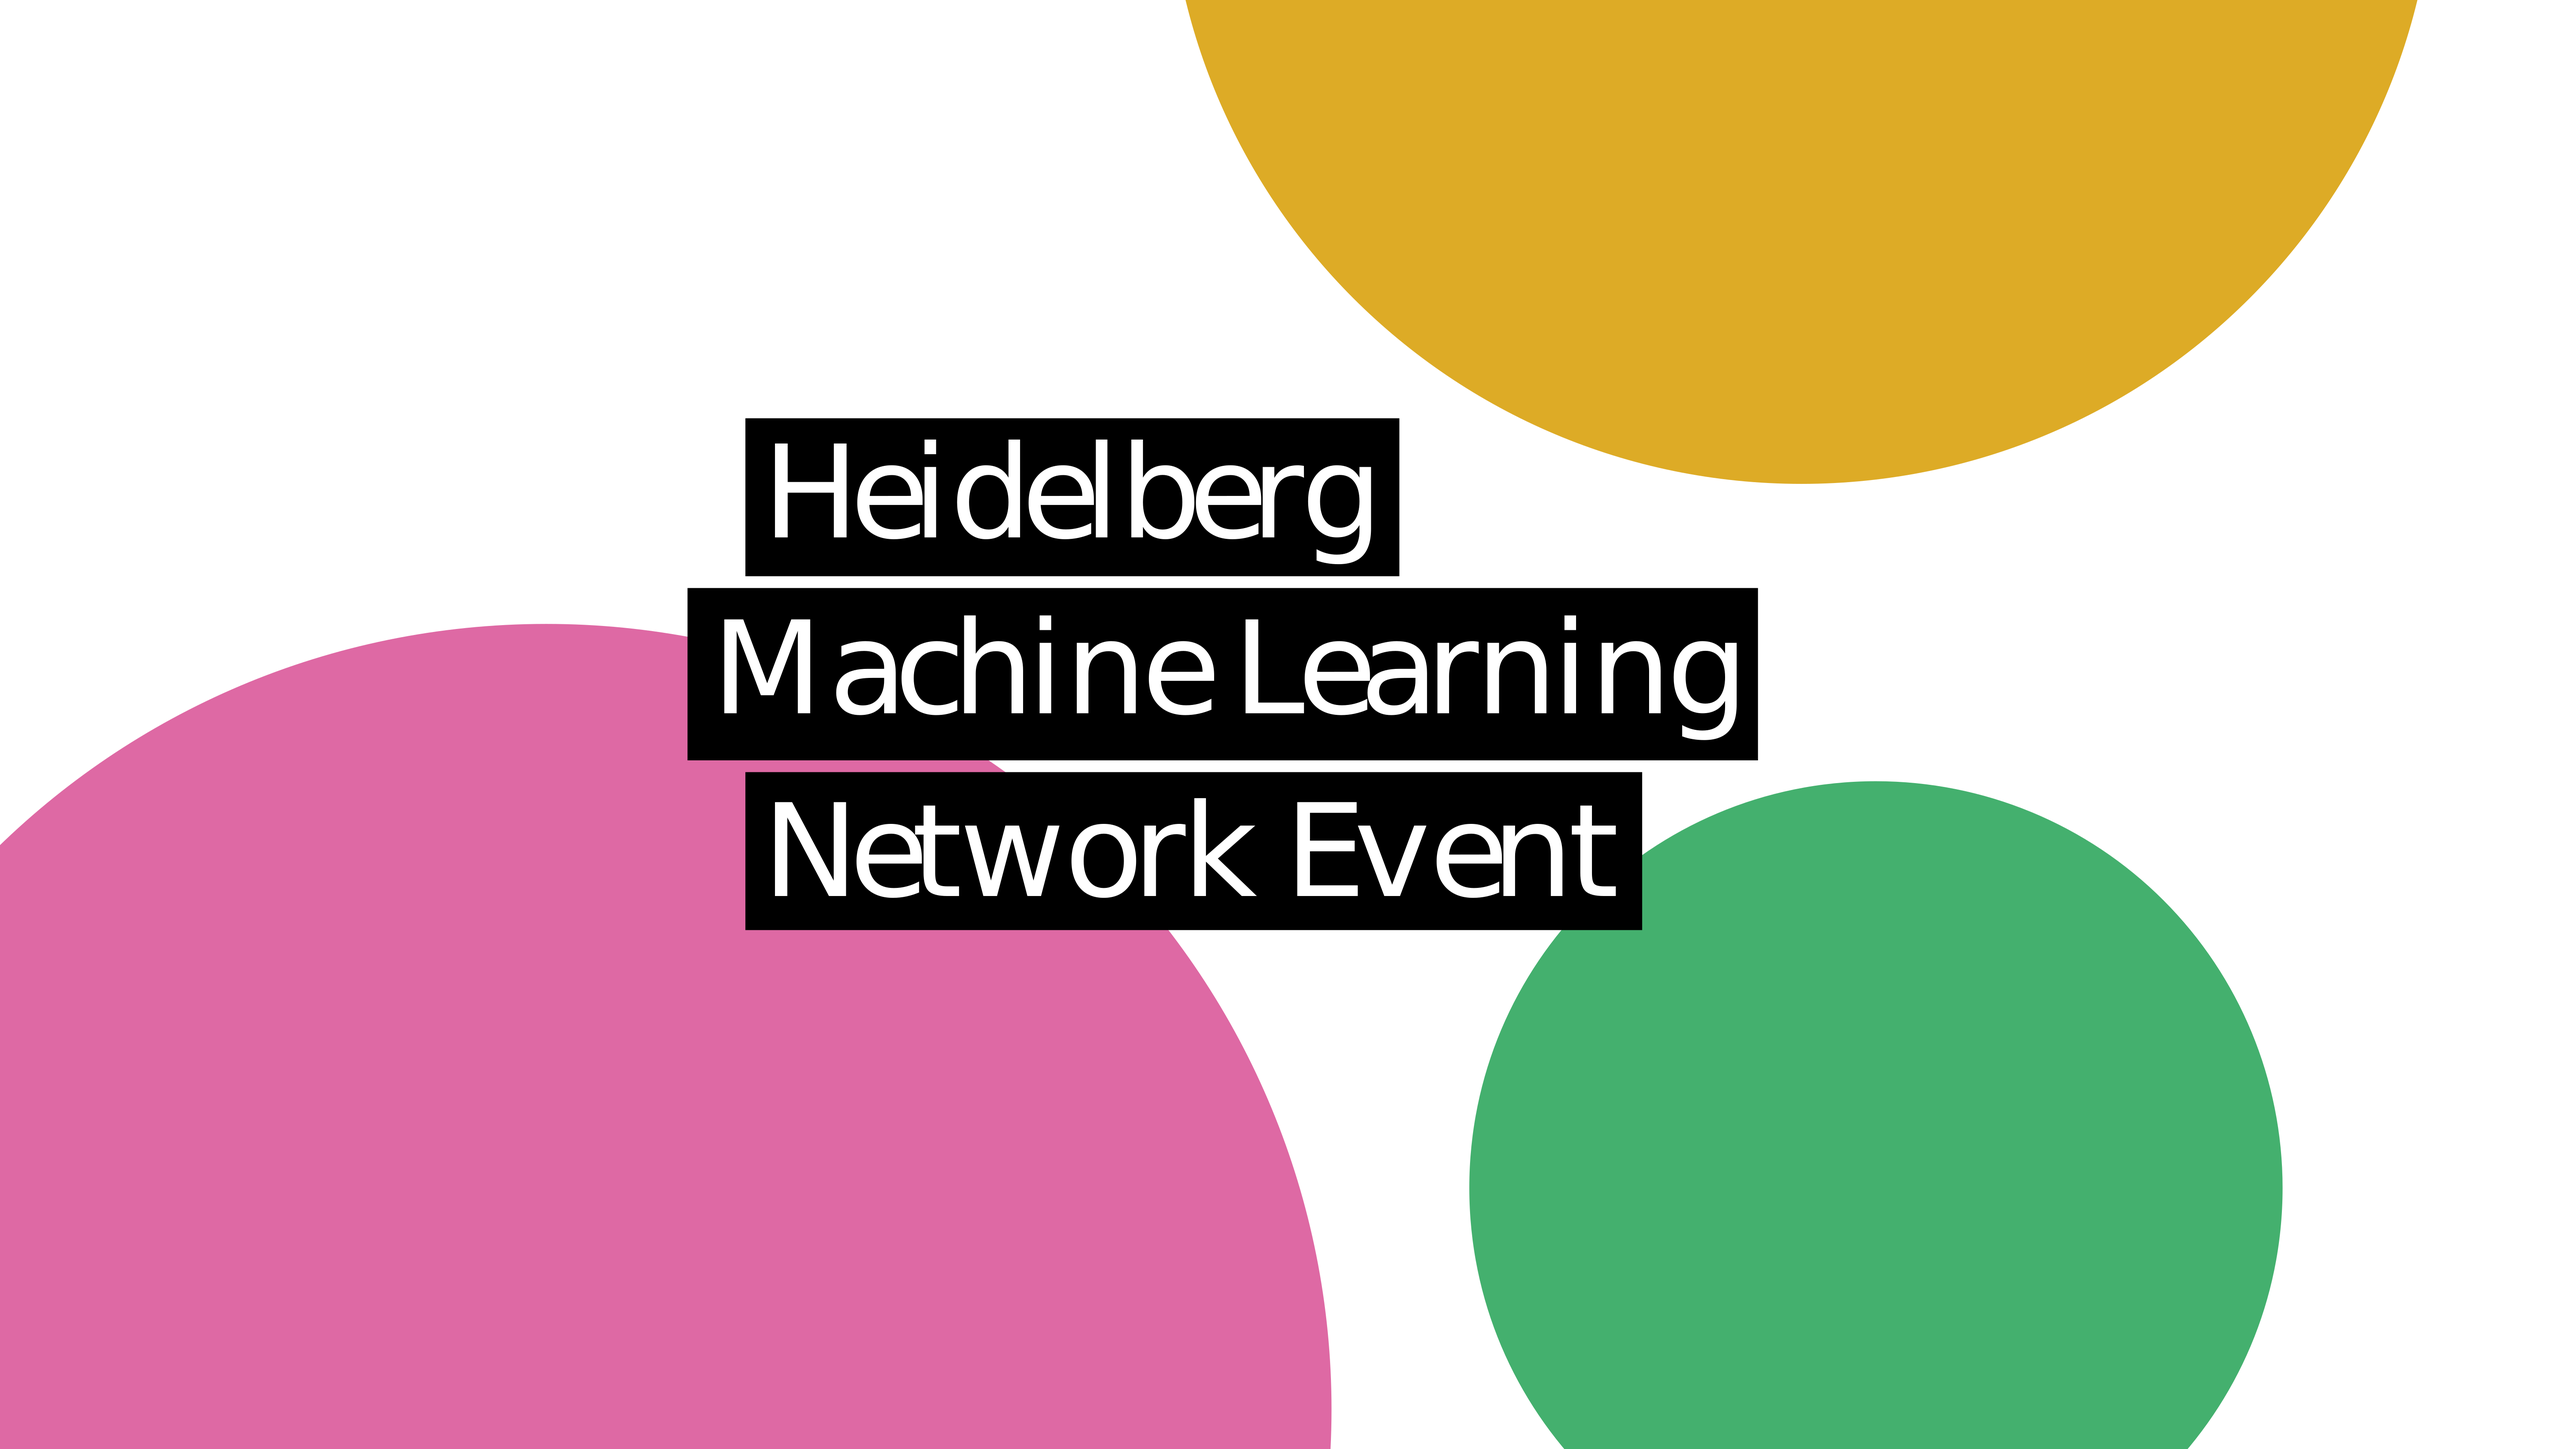
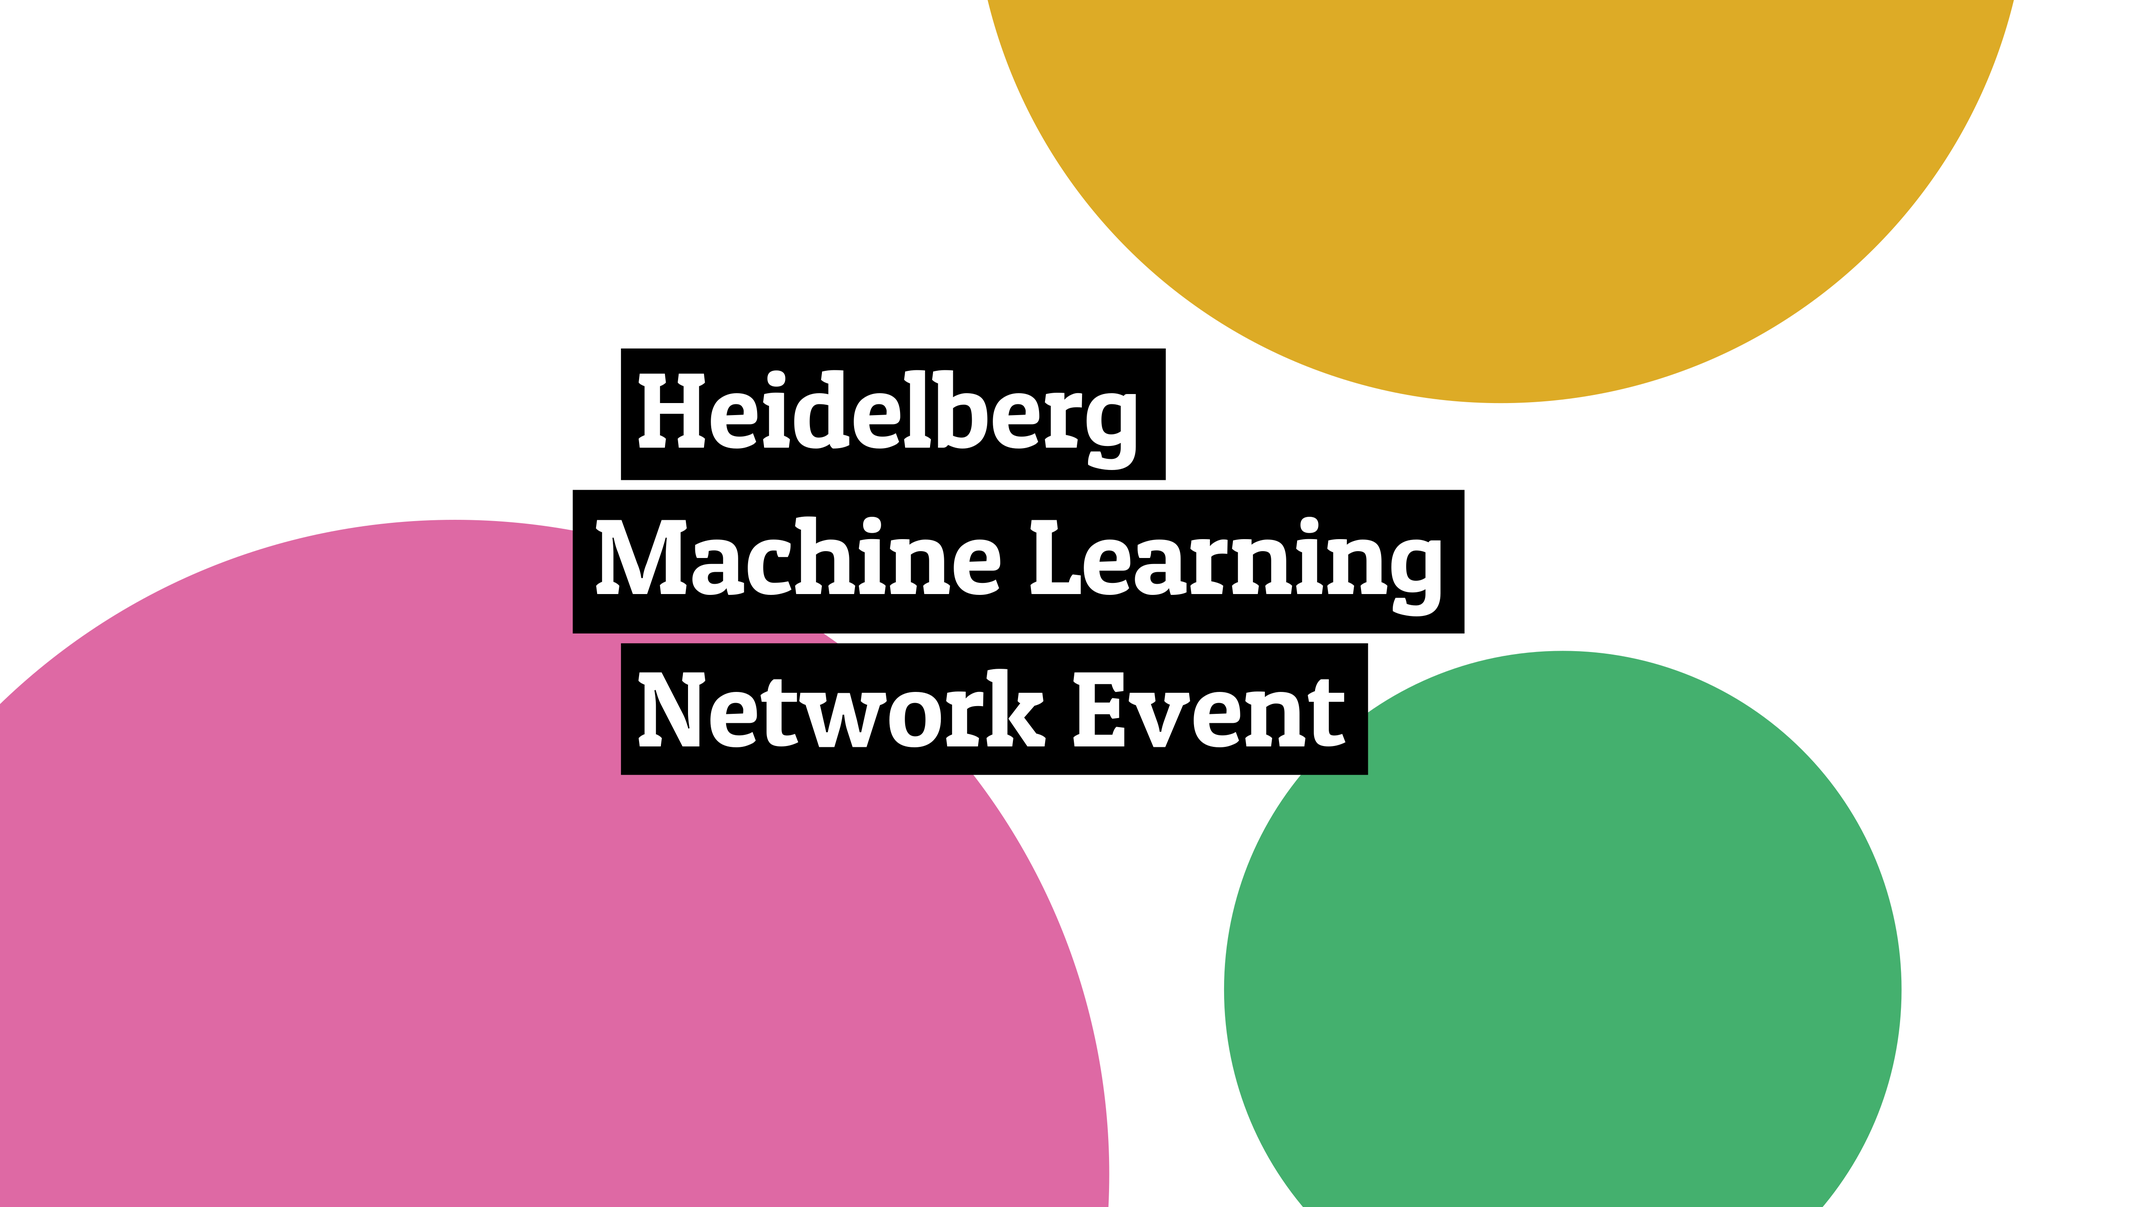
correct font in png

Changed region(s): [[0.2808, 0.4331, 0.6864, 0.526], [0.2808, 0.5569, 0.624, 0.6188], [0.2808, 0.3094, 0.5304, 0.4022]]

diff --git a/network.html b/network.html
@@ -1,11 +1,12 @@
 ---
 layout: page
-title: Network
+title: 
 description:
 background: '/img/network_event.png' 
 form: true
 ---
-
+<br>
+<h5>Heidelberg Machine Learning Network Event</h5>
 <br>In Conjunction with Prof. Carsten Rother (Head of Visual Learning Lab Heidelberg) we are currently planning a networking event for AI-related groups in Heidelberg to be held on November 28th. For contributions please e-mail to <a href="mailto:carsten.rother@iwr.uni-heidelberg.de?Subject=heidelberg.ai%20netwroking%20 event" target="_top" style="text-decoration: underline">Carsten Rother</a>.<br>
 <!--
 https://media.giphy.com/media/l0HlPr63hAtochq4E/giphy.gif
